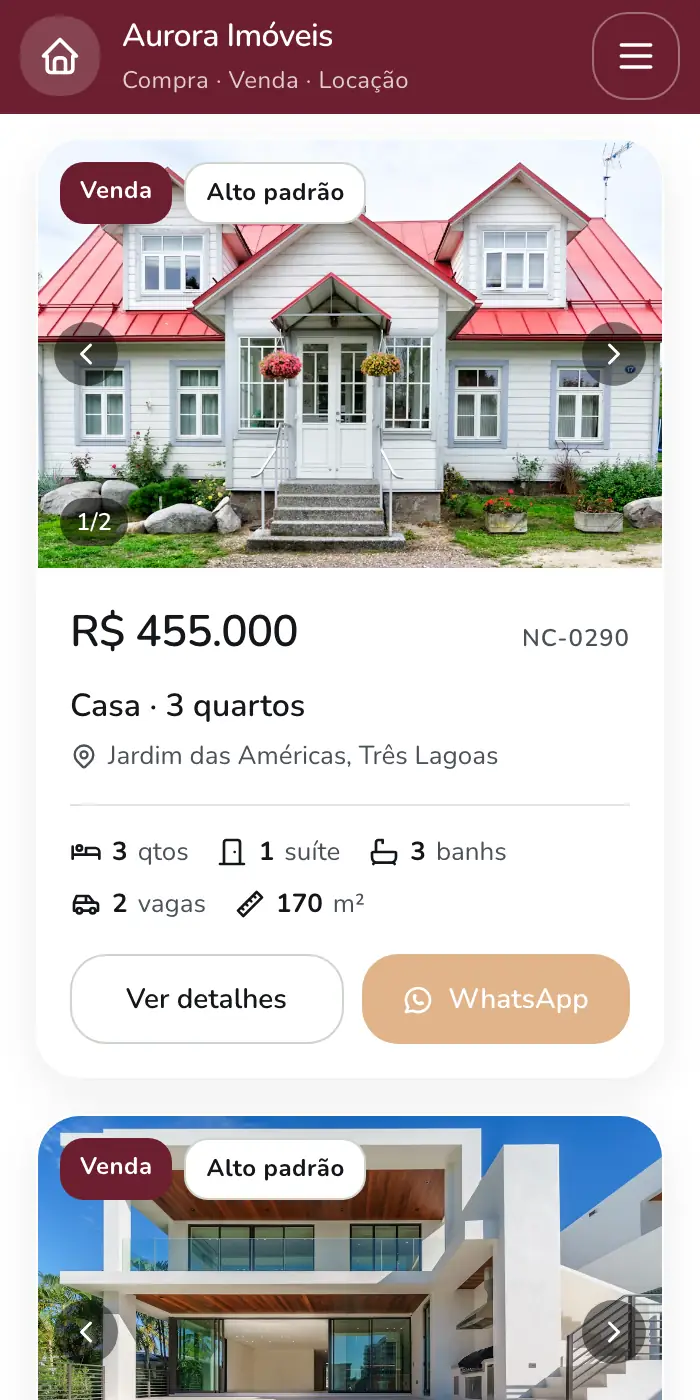
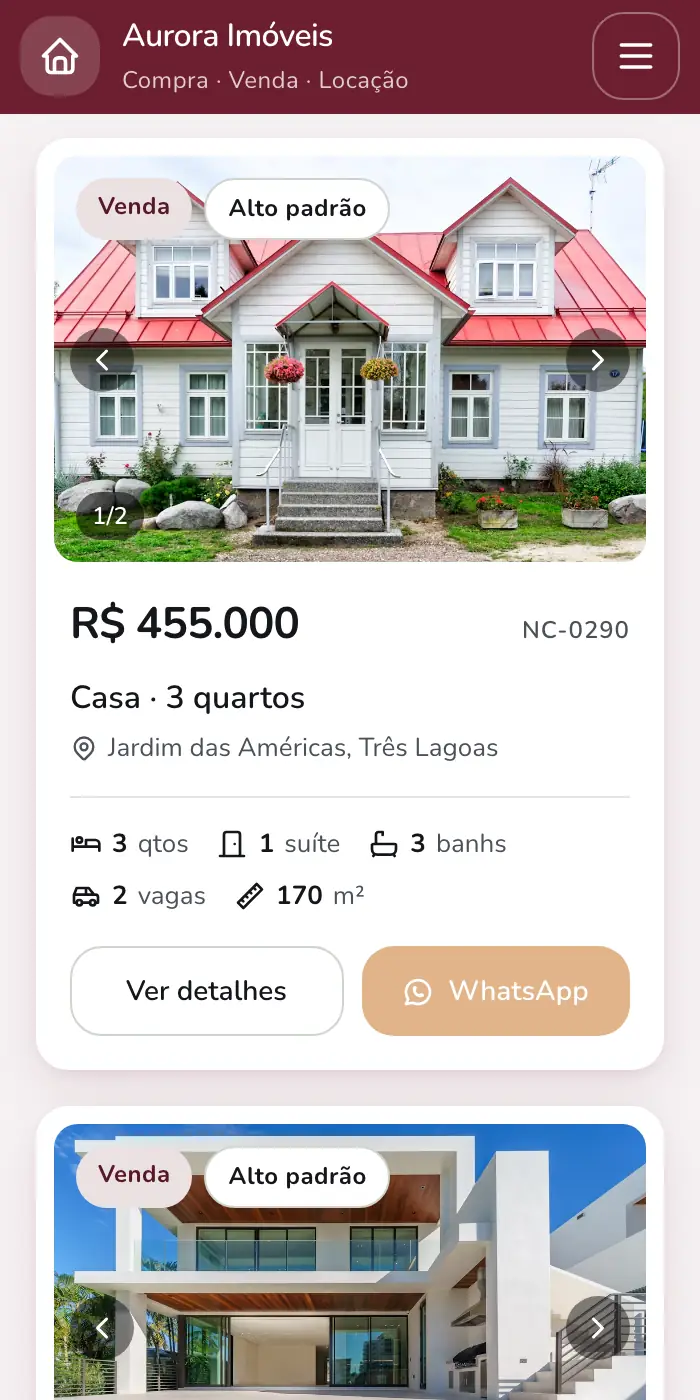
feat(temas): cada tema vira um registro — anatomia do card, selos e botões
Com só fonte e raio diferentes, Clássico, Moderno e Acolhedor pareciam o
mesmo site no celular. Agora cada tema mexe na anatomia, só com CSS e a
mesma marcação, a partir de referências reais (Compass, Sotheby's,
QuintoAndar/Porto Rocha):

- Moderno (produto digital): título 800 compacto, preço como manchete,
  selos e botões em pílula, pastilha ativa na cor da marca, "Ver detalhes"
  em fundo suave, card sem borda com sombra.
- Alto padrão (editorial de luxo): serifa em peso 500, rótulos e botões em
  caixa alta espaçada, foto 4:3, cantos retos, linha fina, sem sombra e sem
  zoom no hover, selos em tinta.
- Acolhedor (imobiliária de bairro): página tingida com a cor da marca do
  próprio cliente (não bege), foto emoldurada dentro do card, selos suaves
  com texto escurecido para marcas claras, títulos 800 arredondados.

Raio de card dentro de 12-16px e elevação declarada uma vez (borda OU
sombra). Seleção de texto na cor de cada tema. Clássico idêntico ao anterior
(0 pixel nos prints). Detector do impeccable: 0 achados. Prints dos temas na
landing refeitos.

diff --git a/app/assets/css/main.css b/app/assets/css/main.css
@@ -100,67 +100,203 @@
    porque o nome aparece neste arquivo. Ver o comentário de --font-display.
    ============================================================ */
 
-/* Moderno: uma família só, cantos generosos, card sem borda com sombra. */
+/*
+ * Cada tema é um REGISTRO, não uma troca de fonte. Com só fonte e raio
+ * diferentes, Clássico, Moderno e Acolhedor pareciam o mesmo site no celular
+ * (as sem-serifa se confundem em tamanho pequeno). Os três mexem agora na
+ * anatomia do card, nos selos e nos botões — só CSS, a mesma marcação.
+ *
+ * Referências (25/09): Compass (preto e branco, a foto dá a cor, a interface
+ * não compete), Sotheby's (serifa de alto contraste, contenção, espaço),
+ * QuintoAndar/Porto Rocha (produto digital, cor sólida, moldura em volta da
+ * foto).
+ */
+
+/* ---- Moderno: produto digital. Tipo pesado e compacto, preço como manchete,
+   pílula em todo controle, card sem borda que se apoia na sombra. ---- */
 [data-tema="moderno"] {
   --font-display: "Figtree", "Figtree Fallback: sans-serif", sans-serif;
   --font-body: "Figtree", "Figtree Fallback: sans-serif", sans-serif;
   --r-sm: 10px;
-  --r-md: 16px;
-  --r-lg: 24px;
+  --r-md: 14px;
+  --r-lg: 22px;
   --r-btn: var(--r-pill);
-  --card-radius: 20px;
+  --card-radius: 16px;
   --card-border: 1px solid transparent;
   --card-border-hover: transparent;
-  --card-shadow: 0 2px 8px rgba(20, 22, 26, 0.06), 0 12px 32px rgba(20, 22, 26, 0.08);
-  --card-shadow-hover: 0 18px 44px rgba(20, 22, 26, 0.16);
+  --card-shadow: 0 1px 2px rgba(20, 22, 26, 0.05), 0 10px 28px rgba(20, 22, 26, 0.08);
+  --card-shadow-hover: 0 16px 40px rgba(20, 22, 26, 0.14);
+}
+[data-tema="moderno"] :is(h1, h2) {
+  font-weight: 800;
+  letter-spacing: -0.035em;
+}
+[data-tema="moderno"] .prop .price {
+  font-size: var(--fs-title-lg);
+  font-weight: 800;
+  letter-spacing: -0.03em;
+}
+[data-tema="moderno"] .badge {
+  border-radius: var(--r-pill);
+  padding: 5px 11px;
+}
+/* Pastilha ativa na cor da marca, não em tinta: em produto digital o estado
+   selecionado é a cor da marca trabalhando. */
+[data-tema="moderno"] .chip.on {
+  background: var(--brand);
+  border-color: var(--brand);
+}
+[data-tema="moderno"] .btn-detail {
+  border-color: transparent;
+  background: var(--surface);
+}
+[data-tema="moderno"] ::selection {
+  background: color-mix(in srgb, var(--brand) 22%, transparent);
 }
 
-/* Alto padrão: serifa nos títulos, cantos quase retos, card plano com linha
-   fina e mais respiro. A sofisticação vem da contenção, não de efeito. */
+/* ---- Alto padrão: editorial de luxo. Serifa em peso médio, rótulos em caixa
+   alta espaçada, foto mais alta, cantos retos, linha fina, nada de sombra.
+   A sofisticação vem do que se tira. ---- */
 [data-tema="alto_padrao"] {
   --font-display: "Playfair Display", "Playfair Display Fallback: serif", Georgia, serif;
-  --r-sm: 2px;
-  --r-md: 4px;
-  --r-lg: 6px;
-  --r-pill: 4px;
-  --r-btn: 2px;
-  --card-radius: 2px;
+  --r-sm: 0px;
+  --r-md: 2px;
+  --r-lg: 2px;
+  --r-pill: 2px;
+  --r-btn: 0px;
+  --card-radius: 0px;
   --card-border: 1px solid var(--line);
-  --card-border-hover: var(--ink-soft);
+  --card-border-hover: var(--ink);
   --card-shadow: none;
   --card-shadow-hover: none;
-}
-/* A Playfair desenha números "de texto" (alturas variadas) por padrão: preço e
-   código saíam "R$ 455.000" com dígitos subindo e descendo, justamente no dado
-   que a pessoa compara de card em card. Números alinhados em todo o tema. */
-[data-tema="alto_padrao"] {
+  /* A Playfair desenha números "de texto" (alturas variadas) por padrão: preço e
+     código saíam "R$ 455.000" com dígitos subindo e descendo, justamente no
+     dado que a pessoa compara de card em card. */
   font-variant-numeric: lining-nums;
 }
-/* Serifa com o tracking negativo dos títulos geométricos fica espremida. */
+/* Serifa com o tracking negativo dos títulos geométricos fica espremida; e o
+   peso 700 da Playfair pesa demais — o luxo aqui é o contraste do traço. */
 [data-tema="alto_padrao"] :is(h1, h2, h3) {
   letter-spacing: 0;
+  font-weight: 500;
 }
 [data-tema="alto_padrao"] .grid {
   gap: 28px;
+}
+/* Foto mais alta: é a peça que vende, e o formato próximo do retrato dá o ar
+   de revista que o 16:11 largo não tem. */
+[data-tema="alto_padrao"] .prop .ph {
+  aspect-ratio: 4 / 3;
+}
+/* A página não disputa com a foto: sem zoom no hover, só a linha escurece. */
+[data-tema="alto_padrao"] .prop:hover {
+  transform: none;
+}
+[data-tema="alto_padrao"] .prop:hover .ph img {
+  transform: none;
+}
+[data-tema="alto_padrao"] .prop .body {
+  padding: 20px 20px 22px;
+}
+[data-tema="alto_padrao"] .prop .price {
+  font-weight: 500;
+  letter-spacing: 0;
+}
+/* Rótulos em versalete espaçado, na linguagem das casas de leilão. */
+[data-tema="alto_padrao"] :is(.badge, .code, .cc-count) {
+  text-transform: uppercase;
+  letter-spacing: 0.14em;
+  font-size: 11px;
+  font-weight: 600;
+}
+[data-tema="alto_padrao"] .badge {
+  background: var(--ink);
+}
+[data-tema="alto_padrao"] .badge.rent {
+  background: var(--ink);
+}
+[data-tema="alto_padrao"] .badge.high {
+  background: rgba(255, 255, 255, 0.92);
+  border-color: transparent;
+}
+[data-tema="alto_padrao"] :is(.btn-detail, .btn-wa, .search-go) {
+  text-transform: uppercase;
+  letter-spacing: 0.1em;
+  font-size: var(--fs-label);
+}
+[data-tema="alto_padrao"] .btn-detail {
+  border-color: var(--ink);
+}
+[data-tema="alto_padrao"] .chip {
+  border-width: 1px;
 }
 /* Rodapé escuro em vez da cor da marca: o par cabeçalho/rodapé escuros é o
    que dá o tom do tema. O corpo continua claro — ver "fora do escopo" na spec. */
 [data-tema="alto_padrao"] .site-footer {
   background: var(--ink);
 }
+[data-tema="alto_padrao"] ::selection {
+  background: var(--ink);
+  color: #fff;
+}
 
-/* Acolhedor: fonte arredondada, cantos grandes, sombra suave. */
+/* ---- Acolhedor: a imobiliária do bairro. Fonte arredondada, a página
+   levemente tingida com a cor da marca do PRÓPRIO cliente, foto emoldurada
+   dentro do card e selos suaves em vez de chapados. ---- */
 [data-tema="acolhedor"] {
   --font-display: "Nunito", "Nunito Fallback: sans-serif", sans-serif;
   --font-body: "Nunito", "Nunito Fallback: sans-serif", sans-serif;
   --r-sm: 12px;
-  --r-md: 18px;
+  --r-md: 16px;
   --r-lg: 24px;
-  --card-radius: 22px;
+  --card-radius: 16px;
   --card-border: 1px solid transparent;
   --card-border-hover: transparent;
-  --card-shadow: 0 6px 24px rgba(20, 22, 26, 0.08);
-  --card-shadow-hover: 0 16px 36px rgba(20, 22, 26, 0.14);
+  --card-shadow: 0 2px 6px color-mix(in srgb, var(--brand) 8%, transparent),
+    0 10px 26px color-mix(in srgb, var(--brand) 10%, transparent);
+  --card-shadow-hover: 0 18px 38px color-mix(in srgb, var(--brand) 18%, transparent);
+  /* Fundo tingido da marca, não bege: cada cliente ganha um calor diferente
+     (o do verde é outro que o do vinho), e o card branco se destaca dele. */
+  --surface: color-mix(in srgb, var(--brand) 6%, white);
+}
+[data-tema="acolhedor"] body {
+  background: var(--surface);
+}
+[data-tema="acolhedor"] :is(h1, h2) {
+  font-weight: 800;
+  letter-spacing: -0.015em;
+}
+/* Foto emoldurada: um respiro branco em volta, cantos próprios — como um
+   porta-retrato, e não uma foto sangrando até a borda do card. */
+[data-tema="acolhedor"] .prop .ph {
+  margin: 8px 8px 0;
+  border-radius: 12px;
+}
+[data-tema="acolhedor"] .prop .body {
+  padding: 14px 16px 16px;
+}
+[data-tema="acolhedor"] .prop .price {
+  font-weight: 800;
+}
+/* Selo suave: fundo claro da marca e texto na marca, não o bloco chapado. */
+[data-tema="acolhedor"] .badge {
+  background: color-mix(in srgb, var(--brand) 14%, white);
+  /* Escurecido: com marca clara (amarelo, verde-limão) o texto na cor pura
+     sumia sobre o próprio tom claro dela. */
+  color: color-mix(in srgb, var(--brand) 78%, black);
+  border-radius: var(--r-pill);
+  padding: 5px 11px;
+}
+[data-tema="acolhedor"] .badge.rent {
+  background: color-mix(in srgb, var(--accent) 16%, white);
+  color: color-mix(in srgb, var(--accent) 80%, black);
+}
+[data-tema="acolhedor"] .chip.on {
+  background: var(--brand);
+  border-color: var(--brand);
+}
+[data-tema="acolhedor"] ::selection {
+  background: color-mix(in srgb, var(--brand) 20%, transparent);
 }
 
 /* ============================================================
